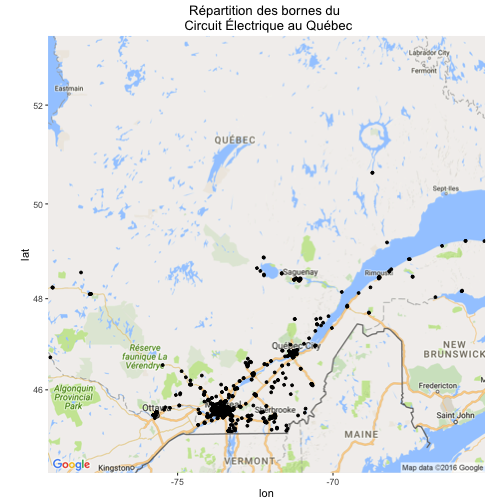
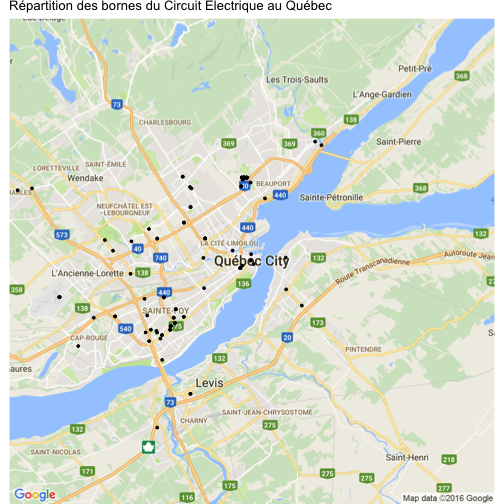
Google map
Changement visuel des carte

diff --git a/_posts/2016-11-07-googlemap.md b/_posts/2016-11-07-googlemap.md
@@ -108,7 +108,7 @@ Puis il faut créer un objet qui servira de base à la carte :
 
 
 {% highlight r %}
-map <- get_map(location = Location, source = "google", maptype = "roadmap", zoom = 6)
+map <- get_map(location = Location, source = "google", maptype = "roadmap", zoom = 11)
 {% endhighlight %}
 La fonction **get_map**, qui va chercher la carte dans google map, prend au minimum 4 arguments. L'argument **location** est le lieu que l'on veut avoir sur la carte. L'argument **zoom** est l'équivalent des + et - sur google map, il permet de s'éloigner ou se rapprocher du lieu qui à été sélectionné. L'arguement **source** est la source de provenance de la carte. Il il y a au moins 4 sources disponibles, et chacune a ses propres **maptype**.
 La *cheat sheet* suivante les explique mieux que j'en serais capable dans cet article : <https://www.nceas.ucsb.edu/~frazier/RSpatialGuides/ggmap/ggmapCheatsheet.pdf>.
@@ -117,8 +117,11 @@ La dernière étape est d'y superposer les points à l'aide de **ggplot** :
 
 {% highlight r %}
 Borne_point <-   ggmap(map) +
-    geom_point(data = BorneQc, aes(x = Longitude, y = Latitude), size = 1) +
-    ggtitle("Répartition des bornes du \n Circuit Électrique au Québec")
+    geom_point(data = BorneQc, 
+               aes(x = Longitude, y = Latitude), 
+               size = 1) +
+    ggtitle("Répartition des bornes du Circuit Électrique au Québec") +
+  theme_nothing(legend = T)
 {% endhighlight %}
 ![plot of chunk unnamed-chunk-10](/figure/source/2016-11-07-googlemap/unnamed-chunk-10-1.png)
 
@@ -127,8 +130,13 @@ Les fonctionnalités disponibles avec **ggplot** sont utilisable ici. Par exempl
 
 {% highlight r %}
 Borne_point <-   ggmap(map) +
-    geom_point(data = BorneQc, aes(x = Longitude, y = Latitude, color = Type), size = 1) +
-    ggtitle("Répartition des bornes du \n Circuit Électrique au Québec")
+    geom_point(data = BorneQc, 
+               aes(x = Longitude, y = Latitude, color = Type), 
+               size = 1) +
+    ggtitle("Répartition des bornes du Circuit Électrique au Québec") +
+    scale_colour_manual(name = "", 
+                        values = c("Level2" = "blue", "FastDC" = "red")) +
+    theme_nothing(legend = T)
 {% endhighlight %}
 ![plot of chunk unnamed-chunk-12](/figure/source/2016-11-07-googlemap/unnamed-chunk-12-1.png)
 
